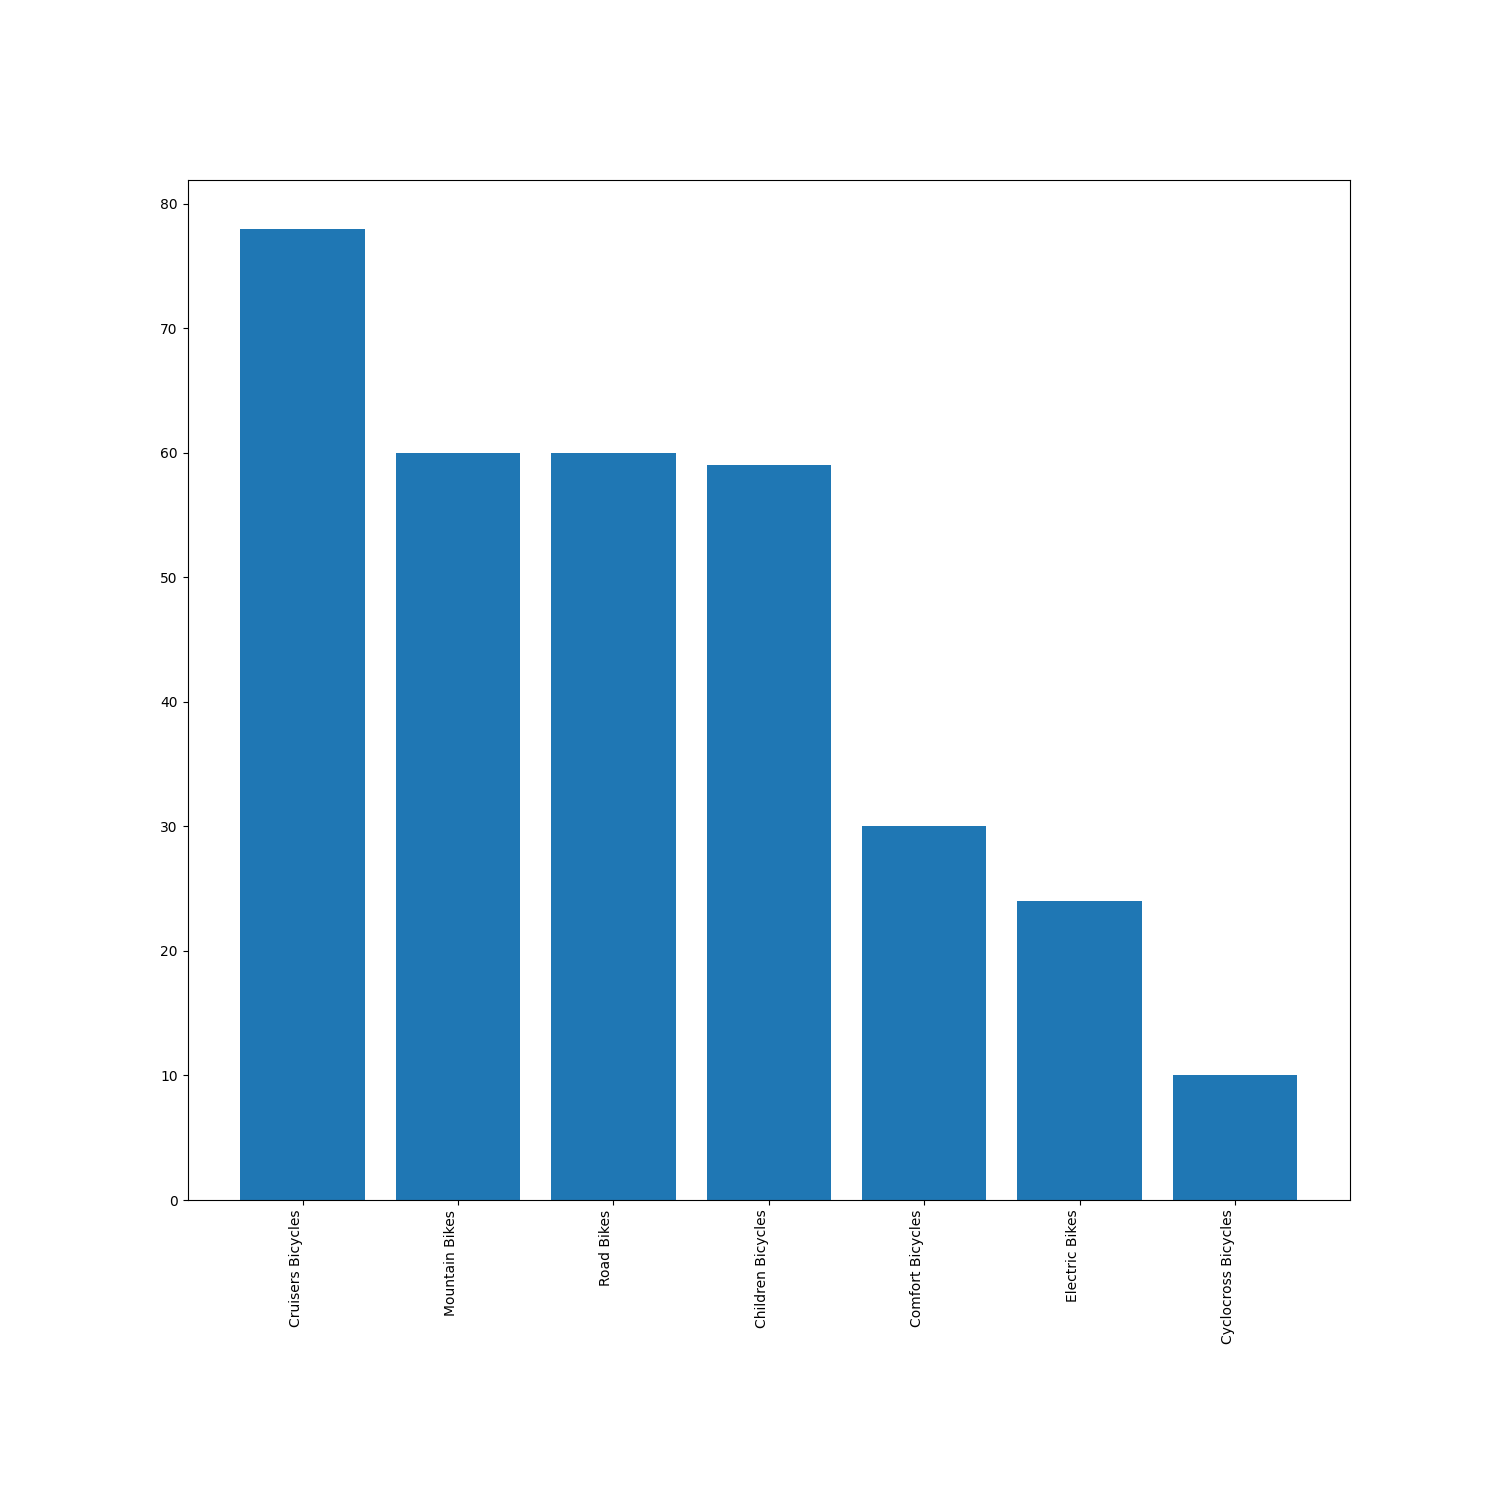
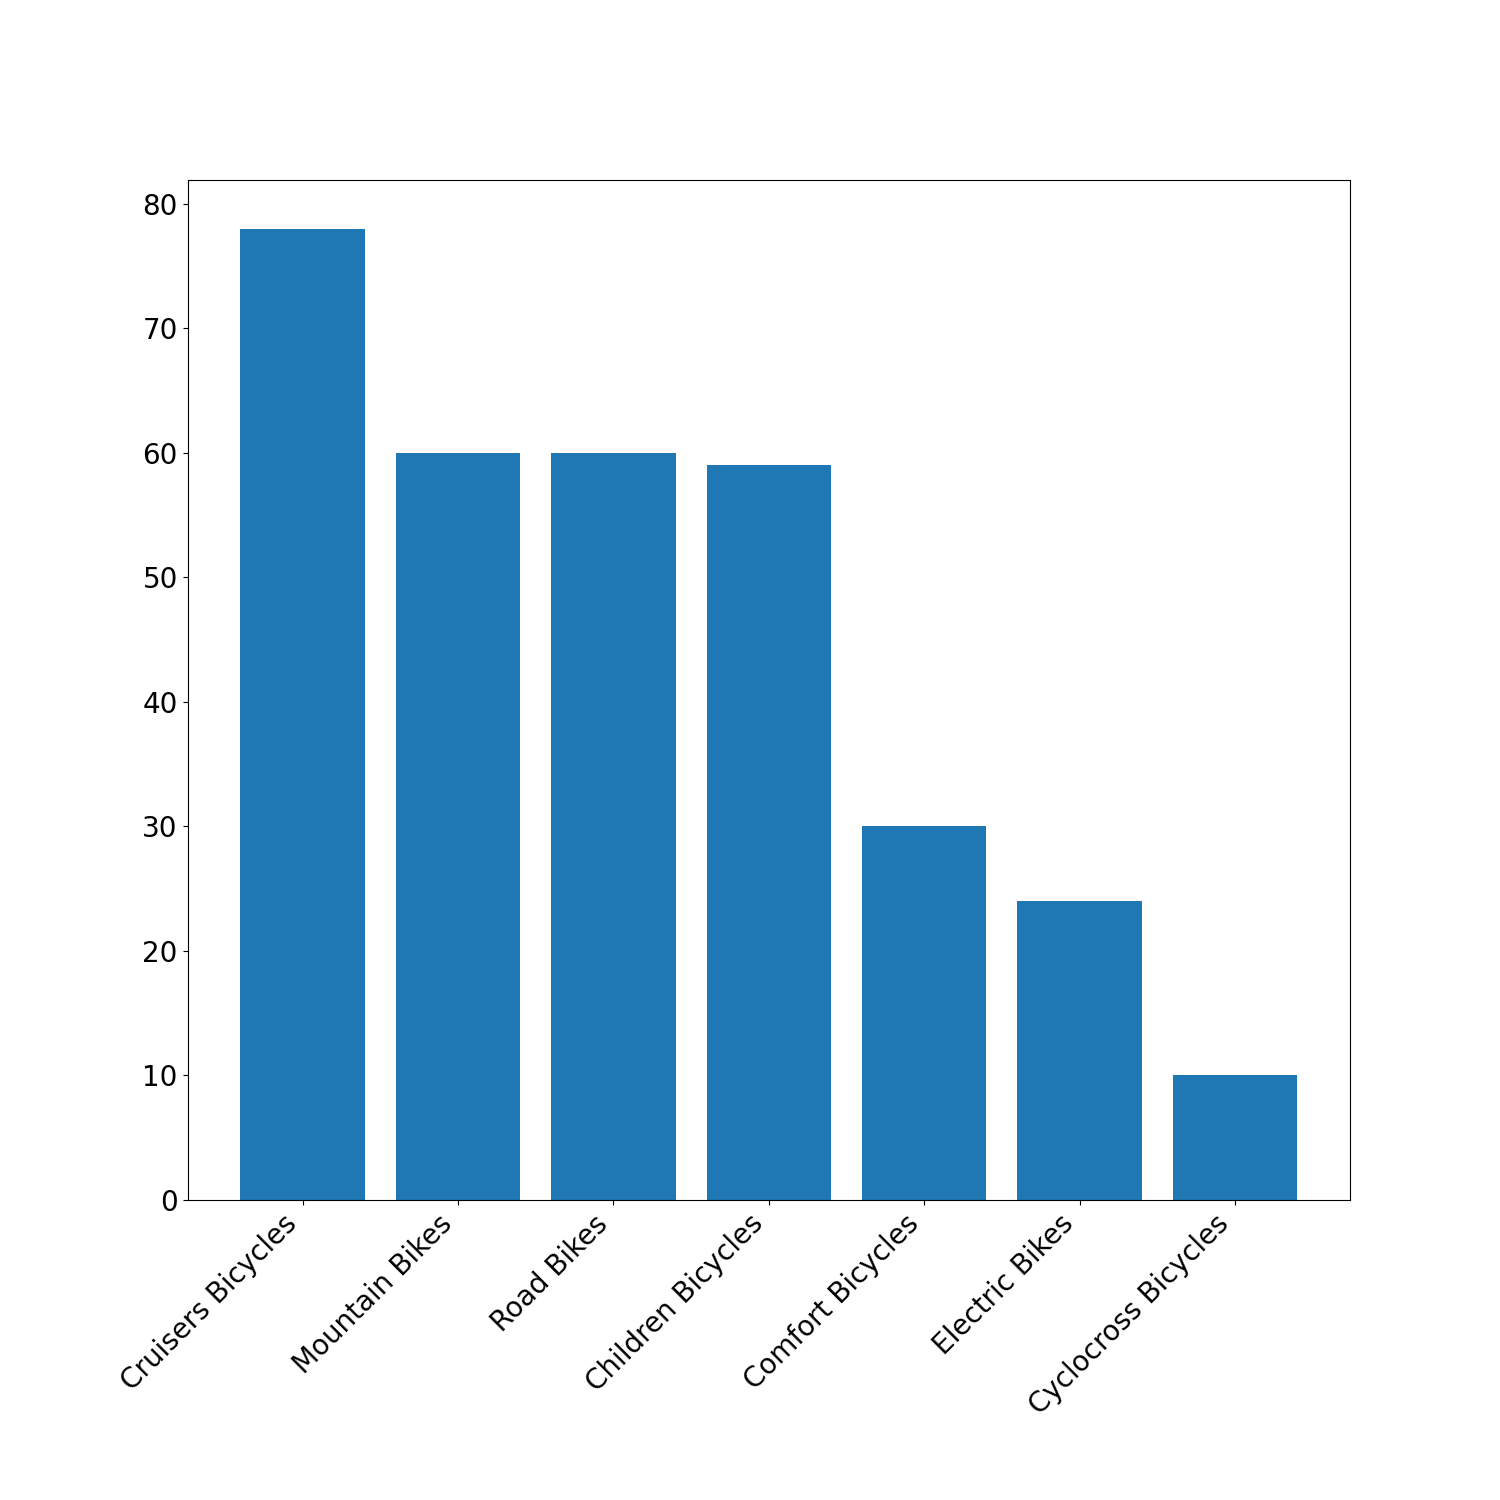
Aggiornamento

diff --git a/templates/Esercizio2/Cerca.html b/templates/Esercizio2/Cerca.html
@@ -1,0 +1,35 @@
+<!DOCTYPE html>
+<html lang="en">
+<head>
+    <meta charset="UTF-8">
+    <meta http-equiv="X-UA-Compatible" content="IE=edge">
+    <meta name="viewport" content="width=device-width, initial-scale=1.0">
+    <title>Document</title>
+    <link href="https://cdn.jsdelivr.net/npm/bootstrap@5.2.1/dist/css/bootstrap.min.css" rel="stylesheet">
+
+</head>
+<body>
+    <div class="container-fluid">
+        <div class="row">
+            <img class="col-4" src={{url}} alt="Chart" height="auto">
+            <img class="col-4" src={{url1}} alt="Chart" height="auto">
+            <img class="col-4" src={{url2}} alt="Chart" height="auto">
+        </div>
+    </div>
+    <form action="/Cerca" method="get">
+        <label for="NomeProdotto" class="form-label">Nome Del Prodotto:</label>
+        <input type="radio" name="Cerca" id="NomeProdotto" value="NomeProdotto">
+        <br>
+        <label for="NomeCategoty" class="form-label">Nome Della Categoria:</label>
+        <input type="radio" name="Cerca" id="NomeCategoty" value="NomeCategoty">
+        <br>
+        <label for="NomeNegozio" class="form-label">Nome Del Negozio:</label>
+        <input type="radio" name="Cerca" id="NomeNegozio" value="NomeNegozio">
+        <br>
+        <label for="NomeBrand" class="form-label">Nome Del Brand:</label>
+        <input type="radio" name="Cerca" id="NomeBrand" value="NomeBrand">
+        <br>
+        <input type="submit" value = "Submit">
+    </form>
+</body>
+</html>

diff --git a/templates/Esercizio2/Search_Category.html b/templates/Esercizio2/Search_Category.html
@@ -1,0 +1,25 @@
+<!DOCTYPE html>
+<html lang="en">
+<head>
+    <meta charset="UTF-8">
+    <meta http-equiv="X-UA-Compatible" content="IE=edge">
+    <meta name="viewport" content="width=device-width, initial-scale=1.0">
+    <title>Document</title>
+    <link href="https://cdn.jsdelivr.net/npm/bootstrap@5.2.1/dist/css/bootstrap.min.css" rel="stylesheet">
+
+</head>
+<body class="bg-success">
+    <div class="container-fluid">
+            <img class="col-4" src={{url}} alt="Chart" height="auto">
+
+            <form action="/result_Category" method="get">
+                <div class="mb-3 mt-3">
+                    <label for="NomeCategory" class="form-label">Nome Della categoria:</label>
+                    <input type="text" class="form-control" id="NomeCategoty" placeholder="Inserisci il Nome della categoria" name="NomeCategory">
+                </div>
+                <input type="submit" value="Ricerca">
+            </form>
+        </div>
+    </div>
+</body>
+</html>

diff --git a/templates/Esercizio2/Search_Name.html b/templates/Esercizio2/Search_Name.html
@@ -1,0 +1,23 @@
+<!DOCTYPE html>
+<html lang="en">
+<head>
+    <meta charset="UTF-8">
+    <meta http-equiv="X-UA-Compatible" content="IE=edge">
+    <meta name="viewport" content="width=device-width, initial-scale=1.0">
+    <title>Document</title>
+    <link href="https://cdn.jsdelivr.net/npm/bootstrap@5.2.1/dist/css/bootstrap.min.css" rel="stylesheet">
+
+</head>
+<body class="bg-success">
+    <div class="container-fluid">
+        <img class="col-4" src={{url}} alt="Chart" height="auto">
+            <form action="/result_Name" method="get">
+                <div class="mb-3 mt-3">
+                    <label for="NomeProdotto" class="form-label">Nome Del Prodotto:</label>
+                    <input type="text" class="form-control" id="NomeProdotto" placeholder="Inserisci il Nome del Prodotto" name="NomeProdotto">
+                </div>
+                <input type="submit" value="Ricerca">
+            </form>
+    </div>
+</body>
+</html>

diff --git a/templates/Esercizio2/result_Name.html b/templates/Esercizio2/result_Name.html
@@ -1,0 +1,29 @@
+<!DOCTYPE html>
+<html lang="en">
+<head>
+    <meta charset="UTF-8">
+    <meta http-equiv="X-UA-Compatible" content="IE=edge">
+    <meta name="viewport" content="width=device-width, initial-scale=1.0">
+    <title>Document</title>
+    <link href="https://cdn.jsdelivr.net/npm/bootstrap@5.2.1/dist/css/bootstrap.min.css" rel="stylesheet">
+
+</head>
+<body>
+    <table class="table">
+        <tr>
+            {% for col in nomiColonne %}
+                <th>{{col}}</th>
+            {% endfor %}
+        </tr>
+        {% for record in dati %}
+            <tr>
+                {% for index in range(nomiColonne|length) %}
+                    <td>
+                        {{record[index]}}
+                    </td>
+                {% endfor %}
+            </tr>
+        {% endfor %}
+    </table>
+</body>
+</html>

diff --git a/App2.py b/App2.py
@@ -5,7 +5,7 @@
 # 4. L'elenco dei prodotti che iniziano con una certa stringa di carattere.
 # Una volta effettuato la scelta l'utente clicca su un bottone che fornisce le informazione richieste.
 # Utilizzare bootstrap per la parte pratica.
-from flask import Flask, render_template, send_file, make_response, url_for, Response,request
+from flask import Flask, render_template, send_file, make_response, url_for, Response, request, redirect
 app = Flask(__name__)
 import contextily
 from matplotlib.backends.backend_agg import FigureCanvasAgg as FigureCanvas
@@ -28,7 +28,7 @@ def home():
     fig1 = plt.figure(figsize=[15,15])
     ax = plt.axes()
     ax.bar(names, values)
-    fig1.autofmt_xdate(rotation=90) 
+    fig1.autofmt_xdate(rotation=45) 
     plt.savefig('static/images/plot.png')
 
     query1 = 'Select Store_Name, Count(*) as Numero_Ordini from Sales.Stores inner join Sales.Orders on Sales.Stores.Store_id = Sales.Orders.Store_id group by Sales.Orders.Store_id,Sales.Stores.Store_name order by Numero_Ordini desc'
@@ -39,12 +39,40 @@ def home():
     ax = plt.axes()
     ax.barh(names, values)
     fig2.autofmt_xdate(rotation=0) 
-    plt.yticks(rotation = 90)
+    plt.yticks(rotation = 45)
     plt.savefig('static/images/plot1.png')
-    return render_template('Esercizio2/Search.html', url='/static/images/plot.png',url1='/static/images/plot1.png')
+    
+    query2 = 'Select Brand_Name, Count(*) as Numero_Prodotti from Production.Products inner join Production.Brands on Production.Brands.Brand_id = Production.Products.Brand_id group by Production.Products.Brand_id,Production.Brands.Brand_name order by Numero_Prodotti desc'
+    df2 = pd.read_sql(query2,conn)
+    names = list(df2['Brand_Name'])
+    values = list(df2['Numero_Prodotti'])
+    plt.rcParams.update({'font.size': 20})    # Aumenta la grandezza del testo (Default: 10)
+    fig3 = plt.figure(figsize=[15,15])
+    ax = plt.axes()
+    ax.pie(values, labels=names, startangle=90, autopct='%1.1f%%')#grafico a torta
+    
+    fig3.suptitle('Numeri prodotti per ogni brand', color='k')
+    plt.savefig('static/images/plot2.png')
+    
+    return render_template('Esercizio2/Cerca.html', url='/static/images/plot.png',url1='/static/images/plot1.png', url2='/static/images/plot2.png')
 
-@app.route('/result', methods=['GET'])
-def result():
+@app.route('/Cerca', methods=['GET'])
+def Cerca():
+  global Cerca
+  Cerca = request.args['Cerca']
+  if Cerca == 'NomeProdotto':
+    return render_template('Esercizio2/Search_Name.html')
+  if Cerca == 'NomeCategoty':
+    return render_template('Esercizio2/Search_Category.html', url='/static/images/plot.png')
+  if Cerca == 'NomeNegozio':
+    return render_template('Esercizio2/Search_Negozio.html', url1='/static/images/plot1.png')
+  if Cerca == 'NomeBrand':
+    return render_template('Esercizio2/Search_Brand.html', url2='/static/images/plot2.png')
+
+  return render_template('Esercizio2/Cerca.html')
+
+@app.route('/result_Name', methods=['GET'])
+def result_Name():
   # Collegamento al database
   
   conn = pymssql.connect(server='213.140.22.237\SQLEXPRESS', user='song.alfio', password='xxx123##', database='song.alfio')  
@@ -54,7 +82,20 @@ def result():
   df_Prodotti = pd.read_sql(query,conn)
   # Visualizzare le informazione.
   df_Prodotti
-  return render_template('Esercizio2/result.html', nomiColonne = df_Prodotti.columns.values, dati = list(df_Prodotti.values.tolist()))
+  return render_template('Esercizio2/result_Name.html', nomiColonne = df_Prodotti.columns.values, dati = list(df_Prodotti.values.tolist()))
+
+@app.route('/result_Category', methods=['GET'])
+def result_Category():
+  # Collegamento al database
+  
+  conn = pymssql.connect(server='213.140.22.237\SQLEXPRESS', user='song.alfio', password='xxx123##', database='song.alfio')  
+  # Invio Query al database e ricezione informazioni
+  Nome_Category = request.args['NomeCategory']
+  query = f"Select * from Production.Products inner join Production.Categories on Production.Categories.Category_ID = Production.Products.Category_ID inner join Production.Brands on Production.Brands.Brand_ID = Production.Products.Brand_ID where Category_name like '{Nome_Category}%'"
+  df_Prodotti = pd.read_sql(query,conn)
+  # Visualizzare le informazione.
+  df_Prodotti
+  return render_template('Esercizio2/result_Category.html', nomiColonne = df_Prodotti.columns.values, dati = list(df_Prodotti.values.tolist()))
 
 
 if __name__ == '__main__':
